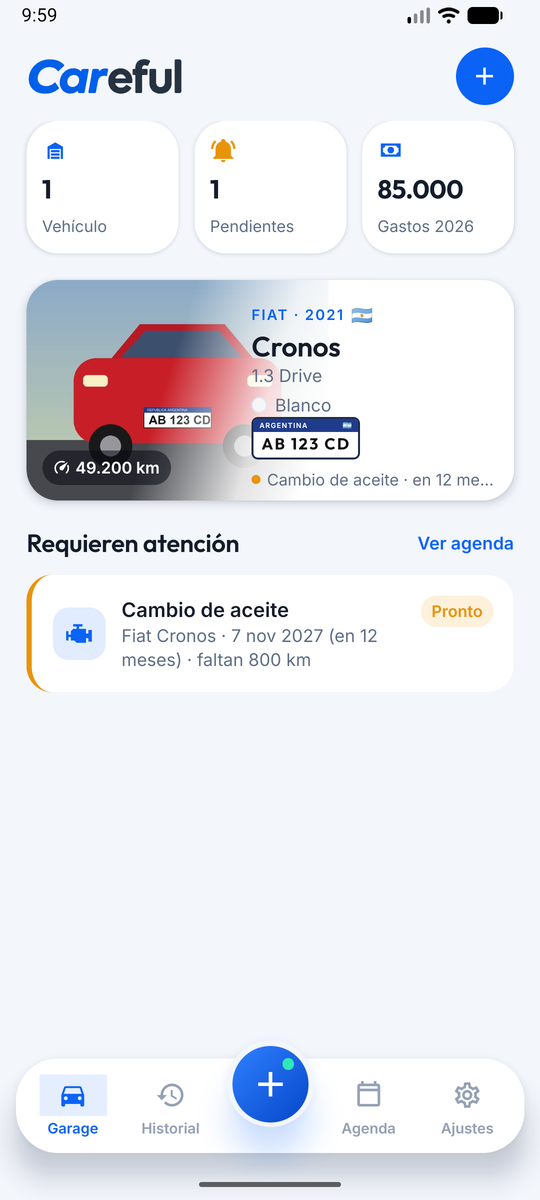
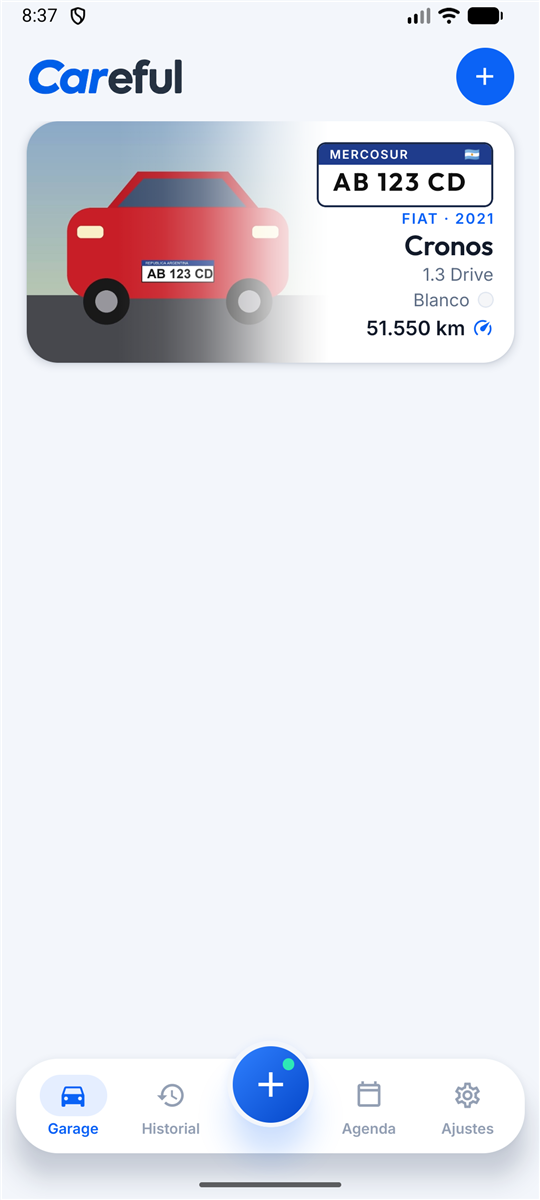
fix: seamless photo fade in the garage card
The diagonal fade spanned the whole card and didn't fully cover the photo's
top-right edge, so a vertical seam showed. The fade now lives inside the
photo, eased, and reaches the card colour exactly at the photo's right edge,
at any screen width.

diff --git a/src/components/VehicleCard.tsx b/src/components/VehicleCard.tsx
@@ -54,16 +54,17 @@ export function VehicleCard({ vehicle, currentKm, onPress }: { vehicle: Vehicle;
       })}>
       <View style={{ position: 'absolute', left: 0, top: 0, bottom: 0, width: '62%' }}>
         <VehiclePhoto vehicle={vehicle} />
+        {/* the photo melts into the card: fully opaque at its right edge, so no seam shows at any width */}
+        <LinearGradient
+          pointerEvents="none"
+          // eased ramp (no visible step where the fade begins), fully opaque at the right edge
+          colors={[surface + '00', surface + '00', surface + '14', surface + '40', surface + '80', surface + 'BF', surface + 'EB', surface]}
+          locations={[0, 0.3, 0.45, 0.58, 0.7, 0.81, 0.92, 1]}
+          start={{ x: 0, y: 0.5 }}
+          end={{ x: 1, y: 0.5 }}
+          style={{ position: 'absolute', inset: 0 }}
+        />
       </View>
-      {/* diagonal fade from the photo into the card surface */}
-      <LinearGradient
-        pointerEvents="none"
-        colors={[surface + '00', surface + '00', surface + 'D9', surface]}
-        locations={[0, 0.3, 0.5, 0.62]}
-        start={{ x: 0, y: 0.15 }}
-        end={{ x: 1, y: 0.85 }}
-        style={{ position: 'absolute', inset: 0 }}
-      />
       <View style={{ flex: 1, flexDirection: 'row' }}>
         <View style={{ width: '44%' }} />
         <View style={{ flex: 1, paddingVertical: spacing.md, paddingRight: spacing.md, paddingLeft: spacing.xs, alignItems: 'flex-end', justifyContent: 'space-between' }}>

diff --git a/CHANGELOG.md b/CHANGELOG.md
@@ -74,6 +74,7 @@ Formato basado en [Keep a Changelog](https://keepachangelog.com/es-ES/1.1.0/). V
 - **Apariencia**: la opción "Sistema" pasa a llamarse "Automático" y es la predeterminada.
 
 ### Corregido
+- **Garage**: en la tarjeta de cada auto la foto se cortaba arriba a la derecha (el degradado no llegaba a taparla). Ahora se funde de forma pareja y termina exactamente en su borde, en cualquier ancho de pantalla.
 - **Montos**: al escribir la quinta cifra el monto se cortaba («12.345» quedaba «1,23»), porque el punto de miles se tomaba como coma decimal. Ahora se pueden cargar montos de millones; la coma (o el punto recién tecleado) marca los decimales.
 - En Expo Go, la app mostraba un error al abrir porque no podía crear el canal de notificaciones. Ahora los avisos usan el canal por defecto si el propio no se puede crear.
 - Al editar un vehículo, "Kilometraje actual" mostraba el kilometraje con el que se lo dio de alta. Ahora muestra el actual, y un valor mayor se guarda como una lectura nueva.
